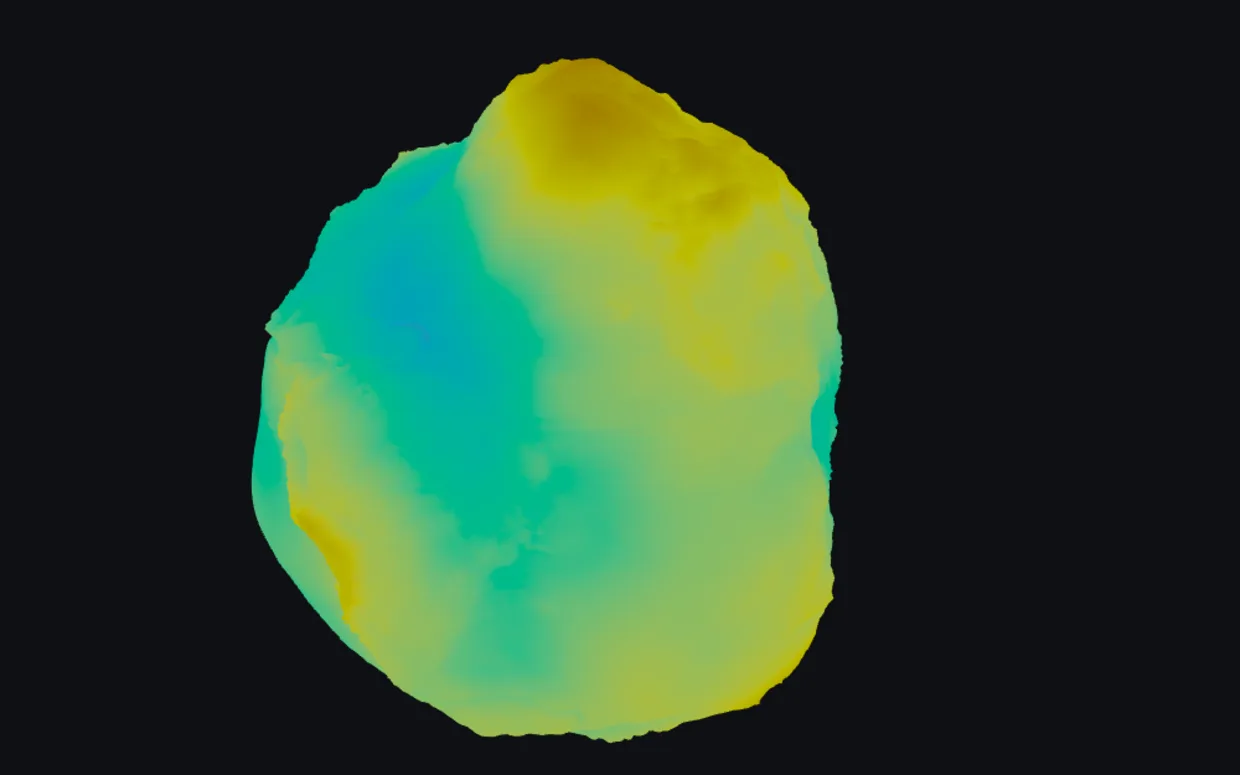
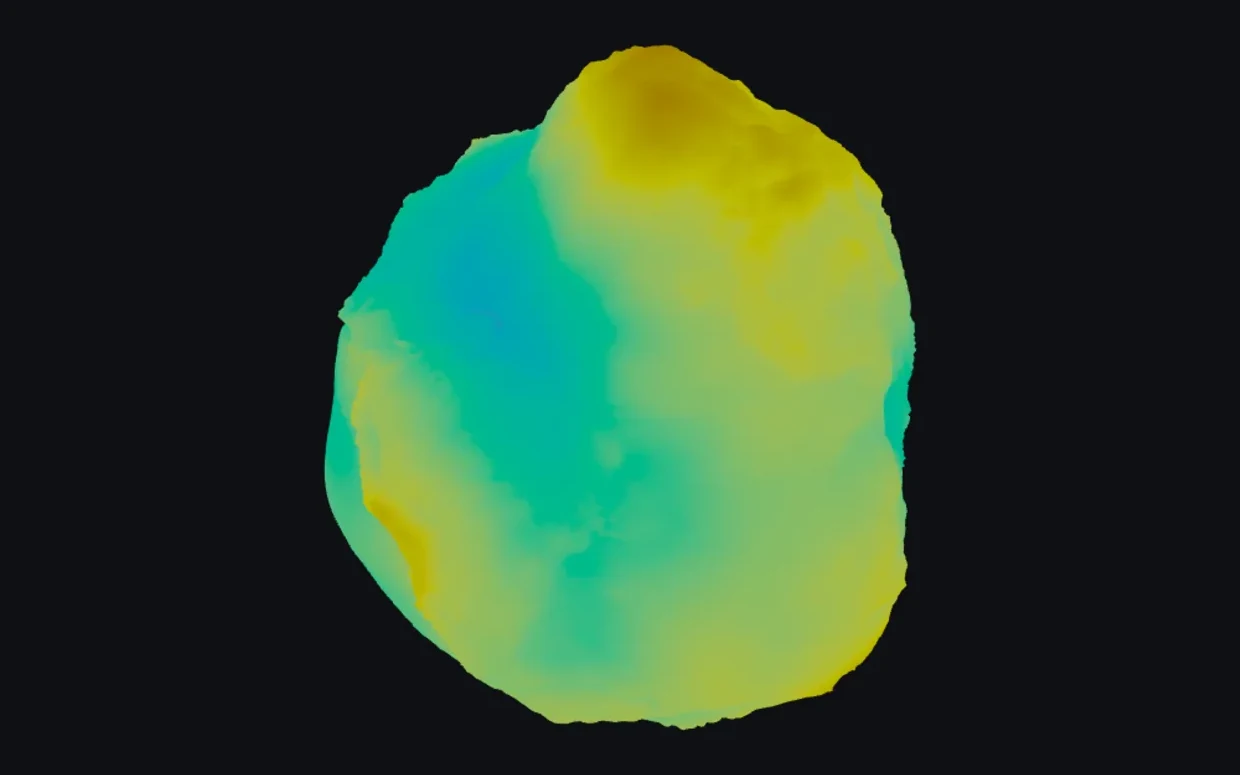
Look-and-feel fixes from critic rounds 5-11
Posts on the site's left edge, h1 and one body size, with small-caps h2 over italic h3 and a
35em laptop measure. Every screenshot on one even 3.5% mount, light-theme shots blended into
the paper. Project figures numbered as a paper numbers them, on the caption line. One date
gutter for Writing and Papers; blurbs fill their cells. quipu re-captured whole in both
themes; geoid-globe re-shot from its own Red-Blue colormap; the post figure centred with its
link and caption below it. Year ranges take an en dash.

Changed region(s): [[0.1839, 0.0619, 0.7355, 0.96]]

diff --git a/src/app.css b/src/app.css
@@ -102,58 +102,61 @@ h2.sec a { color: inherit; text-decoration: none; }
 
 /* Projects: screenshot on a matte, label underneath */
 .projects { display: grid; grid-template-columns: repeat(2, minmax(0, 1fr)); gap: 56px var(--col-gap); margin-bottom: 96px; }
-.frame { background: var(--frame); box-shadow: 0 0 0 1px var(--line); aspect-ratio: 16 / 10; overflow: hidden; display: flex; justify-content: center; align-items: center; padding: 5%; }
-/* Vertical padding is the horizontal times 10/16, so a 16:10 screenshot gets an even margin. */
-.frame.single { padding: 2.1875% 3.5%; }
+/* A 16:10 picture plus an even 3.5% mount all round; phone panes share the same outer shape. */
+.frame { background: var(--frame); box-shadow: 0 0 0 1px var(--line); aspect-ratio: 1 / 0.65125; overflow: hidden; display: flex; justify-content: center; align-items: center; padding: 5%; }
+.frame.single { padding: 3.5%; }
 /* A screenshot with a light-theme twin shows the twin in light mode; the hidden one never loads. */
 .frame.single img.shot-light { display: none; }
 .frame.single img { width: 100%; height: 100%; object-fit: contain; display: block; }
+/* A white light-theme screenshot takes the paper's tone instead of glaring above it; a hairline keeps its edge. */
+.frame.single img.shot-light { mix-blend-mode: multiply; filter: contrast(1.06) brightness(1.03); box-shadow: 0 0 0 1px var(--line); }
 .frame.phones { padding: 6% 6% 4%; gap: 5%; align-items: stretch; }
 .pane { position: relative; height: 100%; min-width: 0; }
 .pane img { height: 100%; width: auto; max-width: 100%; object-fit: contain; display: block; }
 /* Pane letters sit in the matte above each screenshot, so they never cover it. */
 .pane .tag { position: absolute; left: 0; bottom: 100%; color: var(--muted); font-size: 0.8rem; line-height: 1; padding-bottom: 4px; }
 .label { margin-top: 14px; }
+.label .meta i { margin-right: 0.4em; } /* the figure number apart from the year */
 .label .meta { display: block; color: var(--muted); font-size: 0.85rem; font-variant-numeric: lining-nums tabular-nums; }
-.label p { margin: 6px 0 0; max-width: 52ch; text-wrap: pretty; }
+.label p { margin: 6px 0 0; text-wrap: pretty; }
 .label .subcap { display: block; color: var(--muted); font-size: 0.9rem; margin-top: 4px; max-width: 60ch; text-wrap: pretty; }
 .label .links { margin-top: 6px; display: flex; gap: 16px; font-size: 0.95rem; }
 .label .links a { padding-block: 6px; }
 /* Projects without a figure: two columns on the figures' grid, rules between rows. */
 ul.more { list-style: none; padding: 0; margin: 0 0 104px; display: grid; grid-template-columns: repeat(2, minmax(0, 1fr)); column-gap: var(--col-gap); }
 ul.more li { padding-block: 12px; border-block: 1px solid var(--line); margin-bottom: -1px; }
-ul.more li.all { display: flex; align-items: center; font-size: 0.95rem; }
+ul.more li.all { border-bottom-color: transparent; padding-top: calc(12px + 0.85rem * 1.5 + 2px); }
 ul.more .meta { display: block; color: var(--muted); font-size: 0.85rem; }
 ul.more p { margin: 2px 0 0; text-wrap: pretty; }
 ul.more .inline-links a { margin-left: 0.6em; }
 
 /* Dated lists: writing and papers */
 ul.dated { list-style: none; padding: 0; margin: 0 0 104px; max-width: var(--measure); }
-ul.dated li { display: grid; grid-template-columns: 7.5rem minmax(0, 1fr); gap: 16px; align-items: baseline; padding-block: 10px; border-top: 1px solid var(--line); }
+ul.dated li { display: grid; grid-template-columns: 6rem minmax(0, 1fr); gap: 16px; align-items: baseline; padding-block: 10px; border-top: 1px solid var(--line); }
 ul.dated li:last-child { border-bottom: 1px solid var(--line); }
 ul.dated time, ul.dated .when { color: var(--muted); font-size: 0.9rem; font-variant-numeric: lining-nums tabular-nums; }
 ul.dated .note { display: block; color: var(--muted); font-size: 0.9rem; margin-top: 2px; text-wrap: pretty; }
-ul.dated.years li { grid-template-columns: 4rem minmax(0, 1fr); padding-block: 12px; }
+ul.dated.years li { padding-block: 12px; }
 
 /* Posts */
 /* A post is one centred reading column; embeds and code may run wider than the text, centred on it. */
 article.post { margin-bottom: 104px; }
-article.post header { padding-block: 64px 30px; max-width: var(--measure); margin-inline: auto; }
-article.post h1 { font-weight: 400; font-size: clamp(1.65rem, 1.3rem + 1vw, 2.1rem); line-height: 1.2; margin: 0 0 6px; text-wrap: balance; }
+article.post header { padding-block: 64px 30px; max-width: var(--measure); }
+article.post h1 { font-weight: 400; font-size: clamp(1.7rem, 1.2rem + 1.6vw, 2.3rem); line-height: 1.2; margin: 0 0 6px; text-wrap: balance; }
 article.post .byline { color: var(--muted); margin: 0; }
-/* One centre column at the reading measure, sized from the post's text, so headings and paragraphs
-   share an edge; embeds, code and tables span the wider figure width around it. */
+/* One column at the reading measure on the site's left edge, so headings and paragraphs share an
+   edge with every other page; a live embed takes the wider figure width to its right. */
 .post-body {
-	display: grid; max-width: 60rem; margin-inline: auto;
-	grid-template-columns: 1fr min(var(--measure), 100%) 1fr;
+	display: grid; max-width: 60rem;
+	grid-template-columns: min(var(--measure), 100%) 1fr;
 }
-.post-body > * { grid-column: 2; min-width: 0; }
+.post-body > * { grid-column: 1; min-width: 0; }
 .post-body > .iframe-container { grid-column: 1 / -1; }
-.post-body > pre { grid-column: 2; margin-inline: -18px; }
-.post-body > table { grid-column: 2; }
+.post-body > pre { grid-column: 1; }
+.post-body > table { grid-column: 1; }
 .post-body > :first-child { margin-top: 0; }
-.post-body h2 { font-size: 1.35em; font-weight: 400; line-height: 1.25; margin: 2em 0 0.5em; text-wrap: balance; }
-.post-body h3 { font-size: 1.1em; font-weight: 400; font-style: italic; margin: 1.6em 0 0.35em; }
+.post-body h2 { font-size: 1.3rem; font-weight: 400; font-variant-caps: small-caps; letter-spacing: 0.02em; line-height: 1.25; margin: 2.8em 0 0.6em; text-wrap: balance; } /* as h2.sec */
+.post-body h3 { font-size: 1em; font-weight: 400; font-style: italic; margin: 1.8em 0 0.35em; } /* under h2: same size as the text, set apart by italic and space */
 .post-body h2 + h3 { margin-top: 0.5em; }
 /* A bold label opening a list item reads as a run-in head, as a paper sets it. */
 .post-body li > strong:first-child, .post-body p > strong:first-child { font-weight: 400; font-style: italic; }
@@ -170,10 +173,11 @@ article.post .byline { color: var(--muted); margin: 0; }
 .post-body .iframe-container iframe { position: absolute; inset: 0; width: 100%; height: 100%; border: 0; }
 /* A still that links to an embedded app, shown instead of the embed where the app doesn't fit. */
 .post-body > .iframe-container.has-still { display: none; }
-.post-body > .embed-still { display: block; position: relative; grid-column: 2; margin: 30px 0 12px; }
-.post-body > .embed-still img { margin: 0; width: 100%; }
-.post-body > .embed-still span { position: absolute; left: 16px; bottom: 14px; font-size: 0.95rem; color: #d5d9de; text-decoration: underline; text-underline-offset: 0.18em; }
-.post-body > .embed-still img { box-shadow: 0 0 0 1px var(--line); }
+.post-body > .embed-still { display: block; position: relative; grid-column: 1; margin: 30px 0 12px; }
+.post-body > .embed-still img { margin: 0; width: 100%; box-sizing: border-box; background: var(--frame); padding: 3.5%; box-shadow: 0 0 0 1px var(--line); } /* the mount, as .frame */
+.post-body > .embed-still span { display: block; margin-top: 10px; font-size: 0.85rem; color: var(--link); text-decoration: underline; text-underline-offset: 0.18em; } /* a caption line under the mount */
+/* The paragraph that follows a post's figure is its caption: set at caption size, words unchanged. */
+.post-body > .embed-still + p { font-size: 0.85rem; color: var(--muted); max-width: 36em; margin-top: 4px; }
 /* An editor's note set apart from the author's text, where an embed used to be. */
 .post-body > p.note { text-align: left; font-size: 0.9em; color: var(--muted); font-style: italic; border-left: 1px solid var(--line); padding-left: 14px; }
 .post-body table { border-collapse: collapse; font-size: 0.9rem; margin: 0 0 14px; display: block; overflow-x: auto; }
@@ -203,12 +207,11 @@ pre code { font-size: inherit; }
 	:root:not([data-theme='dark']) .shiki, :root:not([data-theme='dark']) .shiki span { color: var(--shiki-light); font-style: var(--shiki-light-font-style, inherit); }
 }
 :root[data-theme='light'] .shiki, :root[data-theme='light'] .shiki span { color: var(--shiki-light); font-style: var(--shiki-light-font-style, inherit); }
-.post-nav { display: flex; justify-content: space-between; gap: 22px; flex-wrap: wrap; max-width: var(--measure); border-top: 1px solid var(--line); padding-top: 18px; margin: 40px auto 0; }
+.post-nav { display: flex; justify-content: space-between; gap: 22px; flex-wrap: wrap; max-width: var(--measure); border-top: 1px solid var(--line); padding-top: 18px; margin: 40px 0 0; }
 .post-nav span { font-size: 0.9em; }
-/* On laptops and wider, posts set a size up and a wider column (about 80 characters a line), so the
-   text uses the screen instead of leaving wide side margins. */
+/* On laptops and wider, posts take a wider column (about 80 characters a line) at the site's one body size. */
 @media (min-width: 1100px) {
-	article.post { font-size: 22px; --measure: 36em; }
+	article.post { --measure: 35em; }
 	.post-body { max-width: 64rem; }
 }
 

diff --git a/src/lib/components/ProjectFigure.svelte b/src/lib/components/ProjectFigure.svelte
@@ -2,7 +2,8 @@
 	import type { Project } from '$lib/config/projects';
 	import { isOtherSite } from '$lib/config/site';
 
-	let { project }: { project: Project } = $props();
+	// `fig` numbers it as a paper numbers its figures.
+	let { project, fig }: { project: Project; fig: number } = $props();
 
 	// Several shots are phone screens, set side by side as labelled panes; one shot fills the matte.
 	const phones = $derived((project.shots?.length ?? 0) > 1);
@@ -27,7 +28,7 @@
 		</div>
 	{/if}
 	<div class="label">
-		<span class="meta">{project.year} · {project.stack}</span>
+		<span class="meta"><i>Fig. {fig}.</i> {project.year} · {project.stack}</span>
 		<p><b>{project.name}.</b> {project.summary}</p>
 		{#if project.subcaption}<span class="subcap">{project.subcaption}</span>{/if}
 		<div class="links">

diff --git a/src/lib/config/projects.ts b/src/lib/config/projects.ts
@@ -48,7 +48,7 @@ export const projects: Project[] = [
 			{ label: 'live', href: '/geoid-globe/' },
 			{ label: 'code', href: 'https://github.com/FMazzoni/geoid-globe' }
 		],
-		shots: [{ src: '/images/projects/geoid-globe.webp', alt: 'The geoid as a deformed globe, coloured from −106 m to +85 m', width: 900, height: 562 }],
+		shots: [{ src: '/images/projects/geoid-globe.webp', alt: 'The geoid as a deformed globe, blue where it lies below the ellipsoid and red where it rises above', width: 900, height: 562 }],
 		featured: true
 	},
 	{

diff --git a/src/routes/+page.svelte b/src/routes/+page.svelte
@@ -28,8 +28,8 @@
 <section aria-labelledby="projects">
 	<h2 class="sec" id="projects"><a href="/projects">Projects</a></h2>
 	<div class="projects">
-		{#each shown as project (project.name)}
-			<ProjectFigure {project} />
+		{#each shown as project, i (project.name)}
+			<ProjectFigure {project} fig={i + 2} /><!-- Fig. 1 is the wave above -->
 		{/each}
 	</div>
 	<ProjectList projects={listed} all={{ label: 'All projects', href: '/projects' }} />

diff --git a/src/lib/utils/content.server.ts b/src/lib/utils/content.server.ts
@@ -93,6 +93,7 @@ function isoDate(value: unknown): string {
 function smarten(text: string): string {
 	return text
 		.replace(/(^|\s)-(?=\s)/g, '$1–')
+		.replace(/\b((?:19|20)\d\d)-((?:19|20)\d\d)\b/g, '$1–$2') // a range of years takes an en dash
 		.replace(/(^|[\s(])-(?=\d)/g, '$1\u2212')
 		.replace(/(^|[\s([{\u2013\u2014])"(?=\S)/g, '$1\u201c')
 		.replace(/"/g, '\u201d')

diff --git a/src/routes/projects/+page.svelte b/src/routes/projects/+page.svelte
@@ -16,8 +16,8 @@
 </section>
 
 <div class="projects">
-	{#each featured as project (project.name)}
-		<ProjectFigure {project} />
+	{#each featured as project, i (project.name)}
+		<ProjectFigure {project} fig={i + 1} />
 	{/each}
 </div>
 
